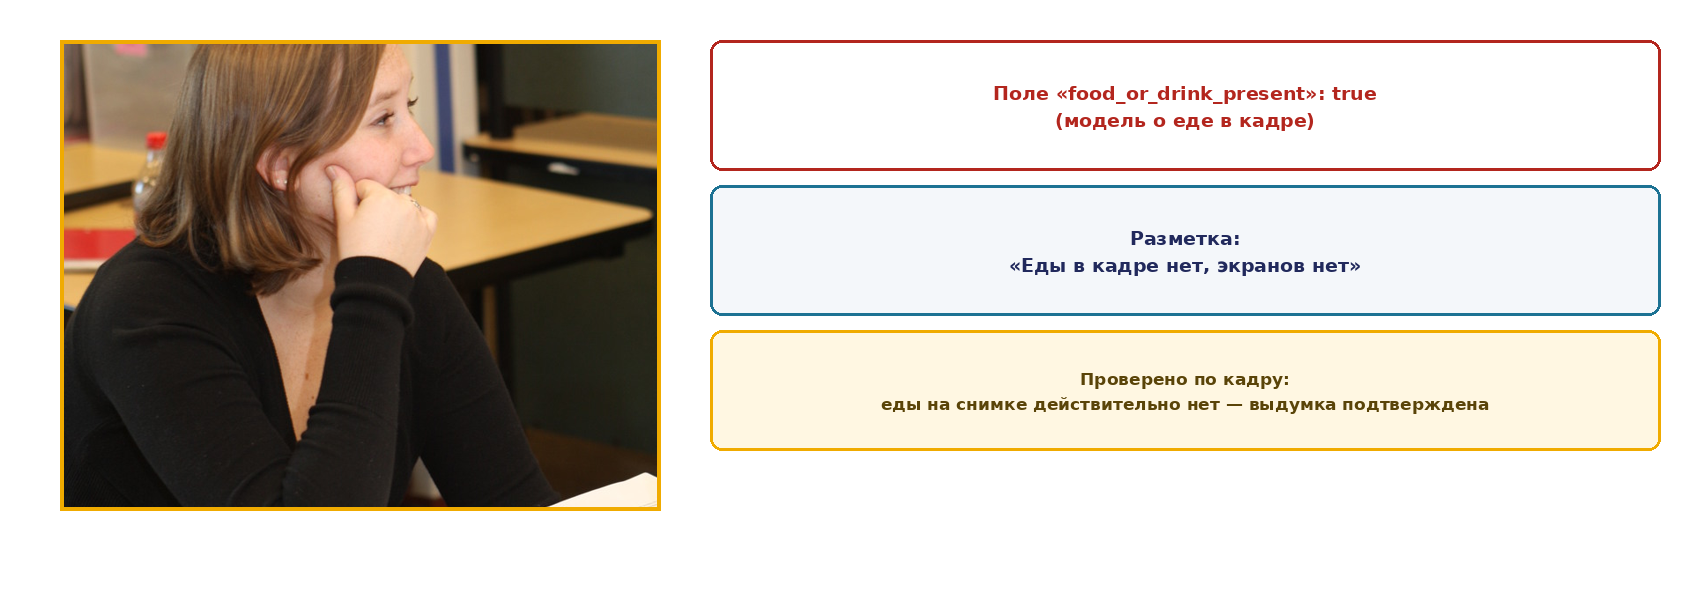
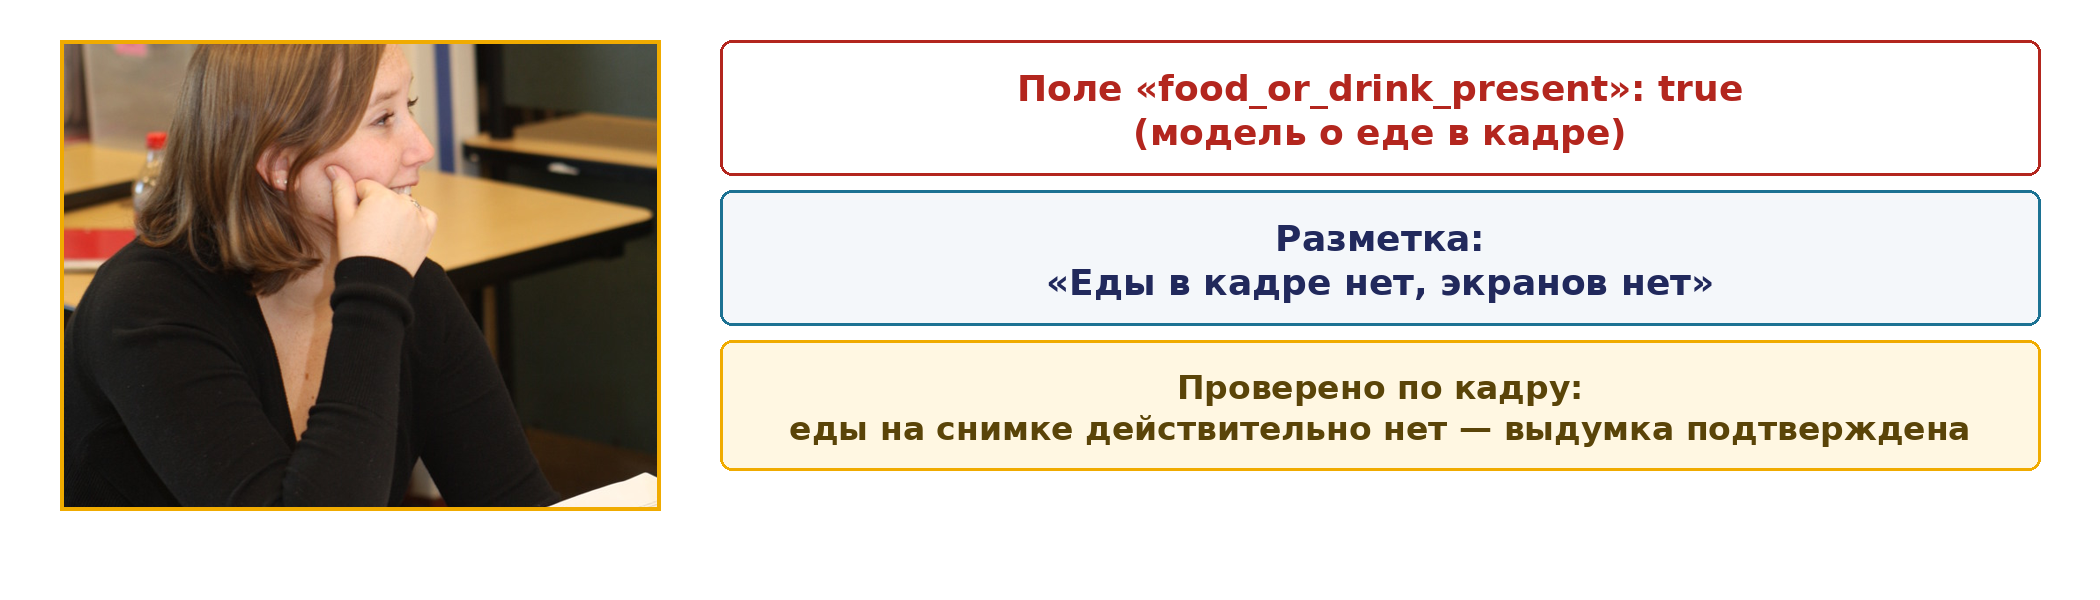
#351 С12: композиция семи кадров — числа выведены из абзацев в полосы, схема n33 разжата, сквозное число поднято в заголовок
n20 — несущая сделка кейса A была абзацем под заголовком, который её же
дословно повторял. Три действия × точность × цена на тысячу форм стали
числовой полосой (73,4%/$3,888 · 59,9%/$0,112 · 33,2%/$0, знаменатель 364
назван в шапке); сделка 13,5 п. за 34,7× осталась выводом под полосой, а
заголовок теперь называет предмет, а не вывод. Ни одной цифры не менялось.

n50 — пять числовых диапазонов шли бегущим текстом на 70% пустого кадра.
Разложены таблицей: два способа × чужие кадры / настоящие совпадения, в
клетке диапазон и медиана. Зазор 0,1435 и «на втрое большей выборке не
сузился» — плашкой под ней.

n33 — «СХЕМА ЗАЖАТА» (79% ширины) и подписи внутри схемы около 8 pt, из
зала не читаются. Холст фигуры 1700×600 → 2100×600 (отношение 2,83 → 3,50),
кегли подняты пропорционально новой ширине (19→36, 17→33 px). Схема берёт
91% ширины, предупреждение ушло, подписи вышли на ~13–14 pt. Снимок взят
из прежнего PNG тем же кропом 600×470 в тех же координатах — corpus-cache
gitignored, результат побайтово тот же, что дал бы прогон генератора.

n45 — нижняя треть пуста. Добавлено то, что кадр обещал собственным
frontmatter'ом и несёт в заметках, но на видимый слой не выводил: один и
тот же ответ модели «курение: да», два вопроса, два разных вердикта.
Нового содержания не вносилось.

n31 — «всех 101 снимке» не согласуется; заголовок переписан через корпус.
Скобка «(где автор разметки и судья совпадают — в заметках)» читалась как
[…]

Changed region(s): [[0.0312, 0.06, 0.9976, 0.87], [0.9665, 0.06, 0.9976, 0.27]]

diff --git a/library/seminars/sem-12/rendered/make_figures_B.py b/library/seminars/sem-12/rendered/make_figures_B.py
@@ -235,11 +235,17 @@ def case_b_confab_example():
     прямо говорит «Еды в кадре нет». Снимок `2ebe189cf7049839` — deck_allowed:
     true (лицо в профиль, не крупно).
 
-    Холст 1700×600 (отношение 2,83, было 1700×700/2,43) — правка #351
-    round 2: при 2,43 фигура на кадре n33 сжималась сборкой до ~70% ширины
-    («СХЕМА ЗАЖАТА») после того, как под неё добавили плашку вывода.
+    Холст 2100×600 (отношение 3,50; было 1700×600/2,83, до того 1700×700/2,43).
+    Правка #351 композиционного круга: при 2,83 сборка всё ещё сжимала фигуру
+    до 79% ширины («СХЕМА ЗАЖАТА» — порог `FIG_MIN_FILL` 80%), и подписи в
+    трёх блоках набирались на кадре около 8 pt — мельче всего остального на
+    слайде, из зала не читается. Лечится одним числом: шире холст при той же
+    высоте — меньше требуемая высота на слайде, больше отданная ширина; кегли
+    при этом подняты пропорционально новой ширине (19→36, 17→33 px), то есть
+    подписи вырастают до ~13-14 pt, а не просто остаются прежними.
     Заголовок не рисуется фигурой — его даёт кадр n33 (правка #351 круг 3)."""
-    im = Image.new("RGB", (1700, 600), W)
+    CW, CH = 2100, 600
+    im = Image.new("RGB", (CW, CH), W)
     d = ImageDraw.Draw(im)
 
     pw, ph = 600, 470
@@ -247,17 +253,17 @@ def case_b_confab_example():
     _paste_fit(im, CORPUS / "2ebe189cf7049839.jpg", gx, gy, pw, ph)
     d.rectangle([gx, gy, gx + pw, gy + ph], outline=GOLD, width=4)
 
-    tx = gx + pw + 50
-    tw = 1700 - tx - 40
-    box(d, tx, gy, tw, 130,
+    tx = gx + pw + 60
+    tw = CW - tx - 60
+    box(d, tx, gy, tw, 135,
         ["Поле «food_or_drink_present»: true", "(модель о еде в кадре)"],
-        W, tc=RED, sz=19, outline=RED, where="вердикт-поле")
-    box(d, tx, gy + 145, tw, 130,
+        W, tc=RED, sz=36, outline=RED, where="вердикт-поле")
+    box(d, tx, gy + 150, tw, 135,
         ["Разметка:", "«Еды в кадре нет, экранов нет»"],
-        SURF, tc=DEEP, sz=19, outline=LIGHT, where="вердикт-разметка")
-    box(d, tx, gy + 290, tw, 120,
+        SURF, tc=DEEP, sz=36, outline=LIGHT, where="вердикт-разметка")
+    box(d, tx, gy + 300, tw, 130,
         ["Проверено по кадру:", "еды на снимке действительно нет — выдумка подтверждена"],
-        WARM, tc=GOLDINK, sz=17, outline=GOLD, where="вердикт-итог")
+        WARM, tc=GOLDINK, sz=33, outline=GOLD, where="вердикт-итог")
 
     save(im, "case-b-confab-example.png")
 

diff --git a/library/seminars/sem-12/slides/n85-skvoznoe-chislo.md b/library/seminars/sem-12/slides/n85-skvoznoe-chislo.md
@@ -9,8 +9,12 @@ visual:
   primary: >
     Таблица на 4 строки: кейс | сравнение | что измерили | вердикт.
     Первые две строки — те, что идут в счёт; две нижние — те, где дорогой
-    выиграл. Внизу — плашка с числом 2 из 4 и правилом счёта, затем
-    плашка о двух изменившихся вердиктах.
+    выиграл. Число «2 из 4» вынесено в ЗАГОЛОВОК — единственное место,
+    где оно набирается крупно: тело кадра у сборщика не идёт выше 15 pt,
+    а одиночная короткая плашка на полном кадре ужимается до 11,5 pt,
+    то есть МЕЛЬЧЕ соседних. Под таблицей то же число стоит первым словом
+    плашки, следом правило счёта; ниже — два изменившихся вердикта и
+    область действия счёта.
   backup: >
     Все четыре строки сверены построчно с отчётами замеров круга 3, не с
     брифингом. Пересчёт счёта — собственная работа этой сессии: прежнее
@@ -19,7 +23,7 @@ visual:
     оказался неизменным.
 ---
 
-# Что дорогой метод выиграл на самом деле
+# 2 из 4: что дорогой метод выиграл на самом деле
 
 ## Assertion
 
@@ -34,11 +38,9 @@ visual:
 | B, фотографии | рассказ модели ↔ локальный детектор предметов | 410 строк разметки из 732 (56,0%) против 183 (25,0%) — разрыв 31 пункт | дорогой выигрывает вдвое |
 | C, запрещённое | мультимодальная модель ↔ сравнение с текстовым описанием, класс курения | по сумме ошибок дешёвый впереди (18 против 25 из 134), по цене ошибки — 17 невозвратных пропусков против нуля | дорогой выигрывает по цене ошибки |
 
-> **2 из 4 — столько сравнений не окупили разницу в цене. Правило счёта: в счёт идёт сравнение, где преимущество дорогого метода отсутствует или непропорционально разнице цены, и мерой берётся та, что совпадает с ценой настоящей ошибки.**
+> **2 из 4 сравнений дня не окупили разницу в цене.** Правило счёта: в счёт идёт сравнение, где преимущество дорогого метода отсутствует или непропорционально разнице цены, и мерой берётся та, что совпадает с ценой настоящей ошибки.
 
-> **На стократном объёме два вердикта этого счёта изменились.** Кейс фотографий из счёта ушёл: на 73 строках разрыв был 6 строк, на 732 стал 31 пункт. Кейс документов в счёте остался, но разрыв сузился с 21 пункта до 13,5.
-
-> Это счёт по строкам именно сегодняшних четырёх кейсов — исчерпывающий список дня, без претензии на прогноз для будущих задач.
+> **На стократном объёме два вердикта этого счёта изменились.** Кейс фотографий из счёта ушёл: на 73 строках разрыв был 6 строк, на 732 стал 31 пункт. Кейс документов в счёте остался, но разрыв сузился с 21 пункта до 13,5. Это счёт по строкам именно сегодняшних четырёх кейсов — исчерпывающий список дня, без претензии на прогноз для будущих задач.
 
 ## Speaker notes
 

diff --git a/library/seminars/sem-12/slides/n31-struktura-zamera.md b/library/seminars/sem-12/slides/n31-struktura-zamera.md
@@ -20,7 +20,7 @@ visual:
     `deck_allowed: true` в `razmetka-101.json`.
 ---
 
-# Как устроен замер: три прогона на всех 101 снимке
+# Как устроен замер: корпус из 101 снимка, три прогона
 
 ## Assertion
 
@@ -32,7 +32,7 @@ visual:
 |---|---|---|---|
 | `gpt-4o-mini` | `gpt-4o-mini` | `yolov8n`, локально | 12 групп · 303 чтения |
 
-> **Почему это не подгонка под ответ.** Разметка написана до единого модельного вызова; читается **весь корпус целиком** — сто один снимок, не выборка (где автор разметки и судья совпадают — в заметках).
+> **Почему это не подгонка под ответ.** Разметка написана до единого модельного вызова; читается **весь корпус целиком** — сто один снимок, не выборка. Совпадение автора разметки и судьи — в заметках.
 
 ## Speaker notes
 

diff --git a/library/seminars/sem-12/slides/n46-struktura-zamera.md b/library/seminars/sem-12/slides/n46-struktura-zamera.md
@@ -17,7 +17,7 @@ visual:
     названы в заметках.
 ---
 
-# Корпус замера: откуда кадры и какая доля запрещённых в каждом срезе
+# Три среза корпуса: откуда кадры и доля запрещённых
 
 ## Assertion
 
